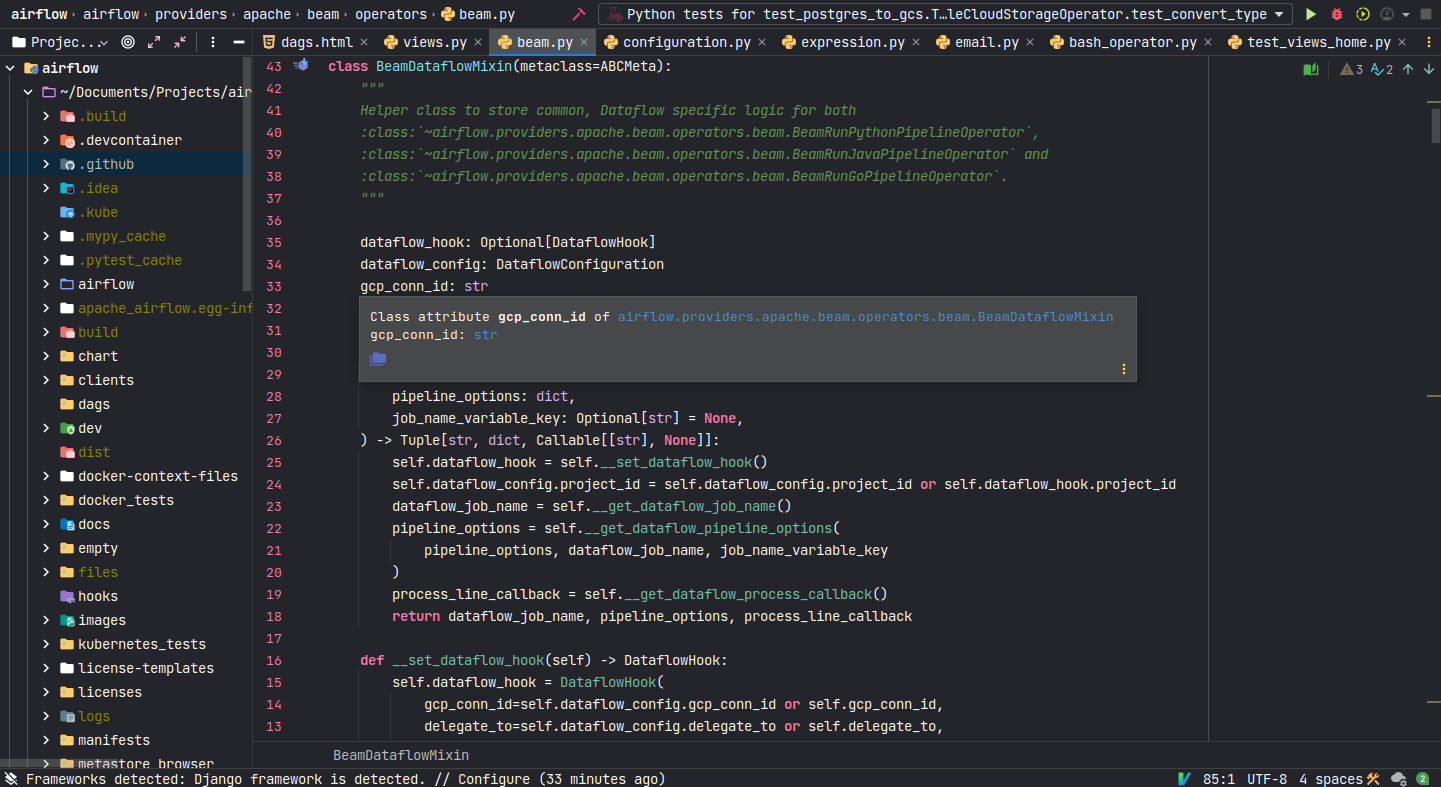
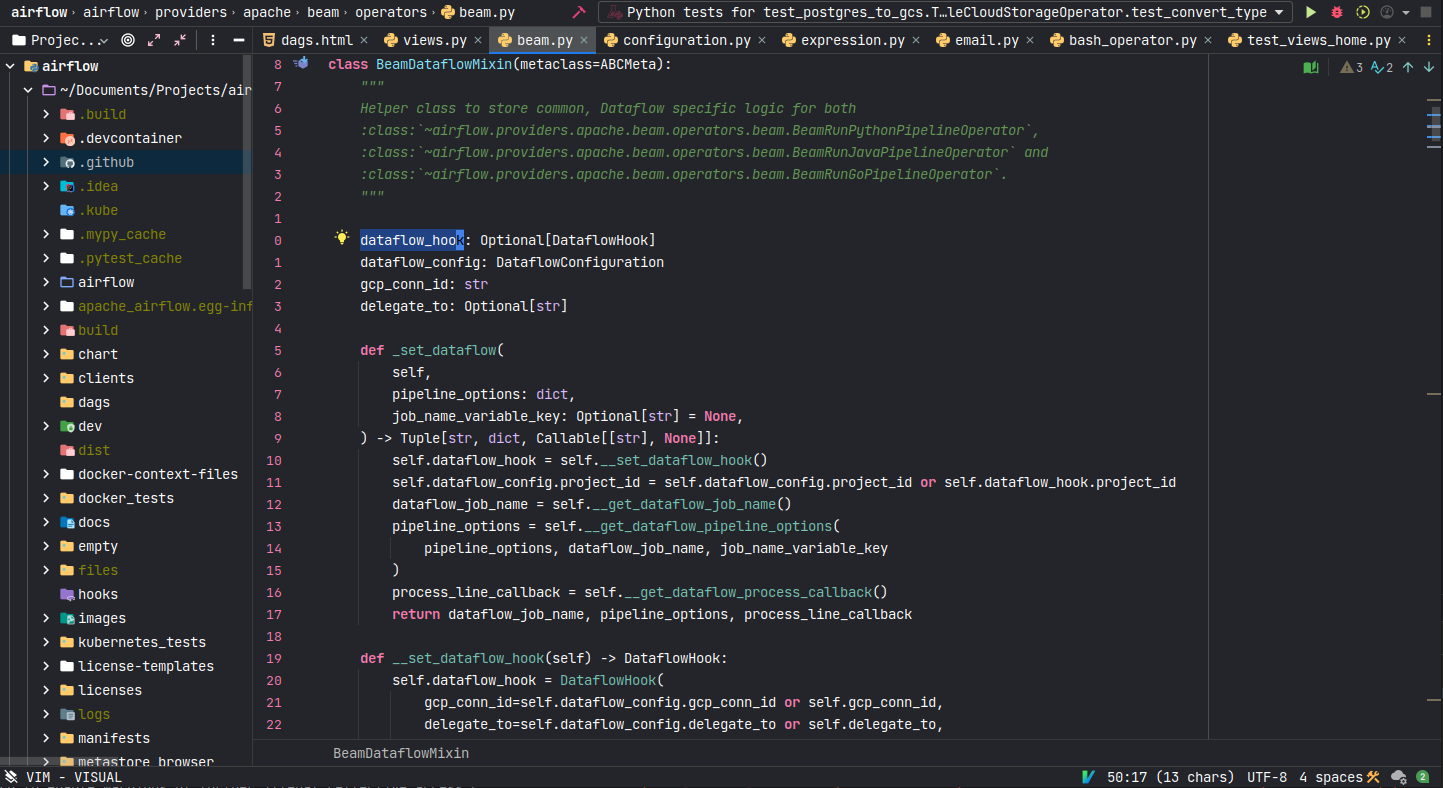
Update licence and screenshots

diff --git a/README.md b/README.md
@@ -32,7 +32,7 @@ I just wanted to bring some tweaking for my personal use, and I thought others m
 ## Screenshots
 <img src="https://github.com/pierrejeambrun/IntellijXCodeDarkerTheme/raw/master/images/screenshot-full.png" height="400" width="600" alt="full-image">
 <br />
-<img src="https://github.com/pierrejeambrun/IntellijXCodeDarkerTheme/raw/master/images/screenshot-full.png" height="400" width="600" alt="full-image-2">
+<img src="https://github.com/pierrejeambrun/IntellijXCodeDarkerTheme/raw/master/images/screenshot-full-2.png" height="400" width="600" alt="full-image-2">
 <br />
 <img src="https://github.com/pierrejeambrun/IntellijXCodeDarkerTheme/raw/master/images/screenshot-actions.png" height="400" width="330" alt="actions-image">
 

diff --git a/CHANGELOG.md b/CHANGELOG.md
@@ -2,6 +2,10 @@
 
 ## [Unreleased]
 
+## [1.0.7]
+- Update Licence
+- Update Screenshots
+
 ## [1.0.6]
 - Darker UI
 - Remove some grayed out effects
